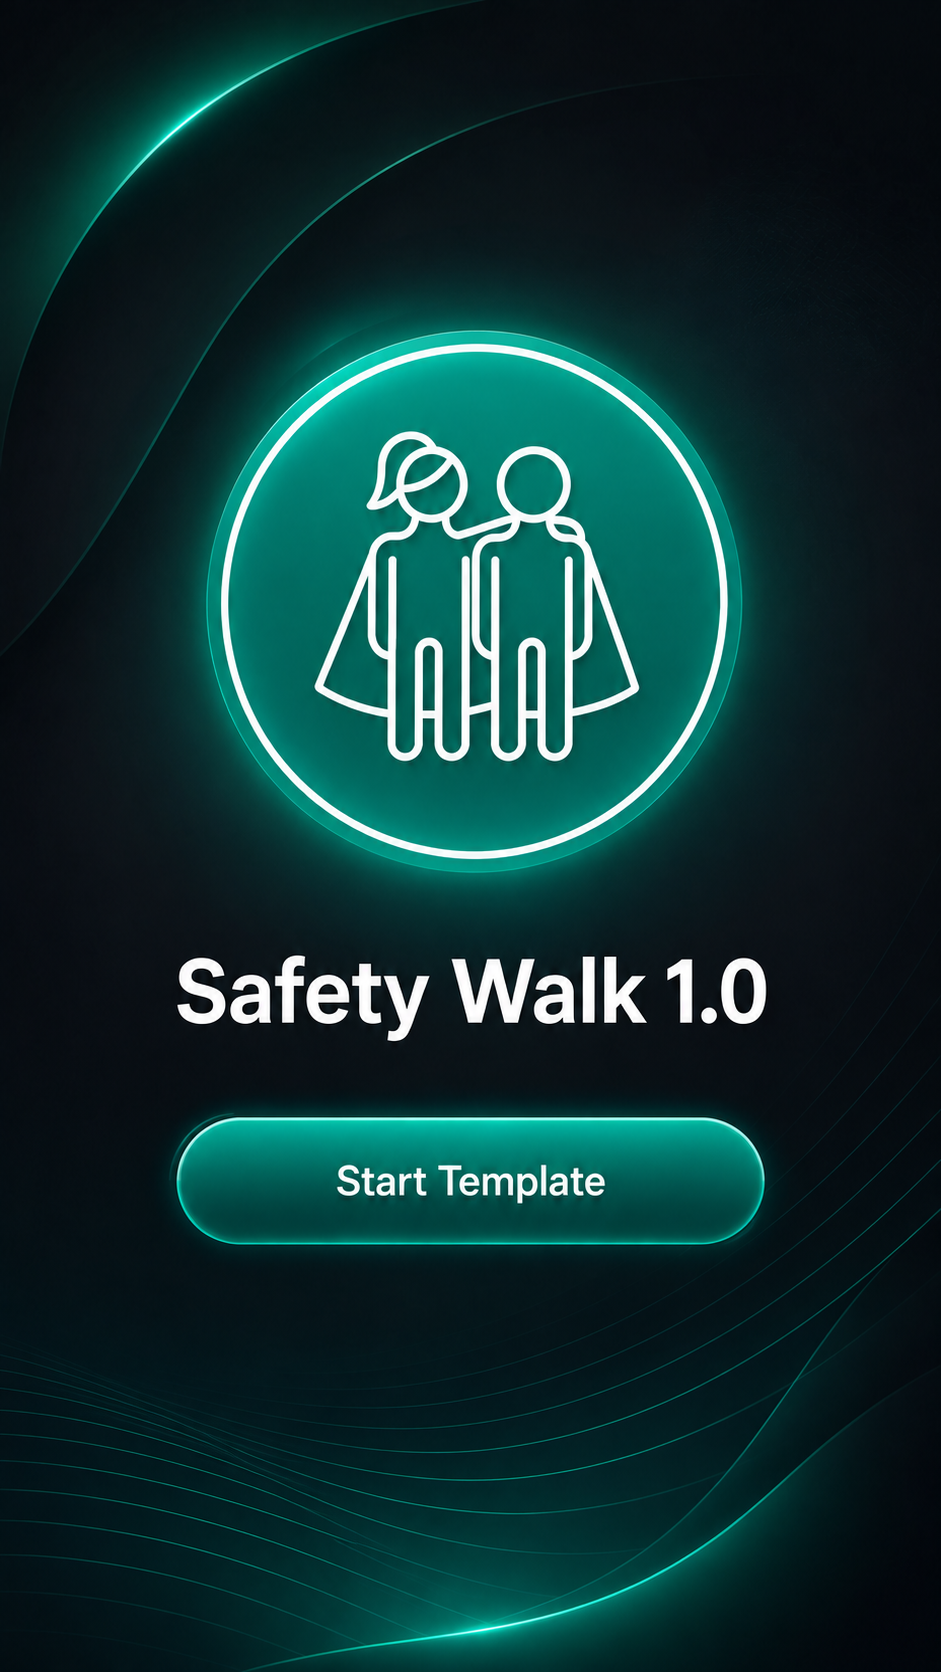
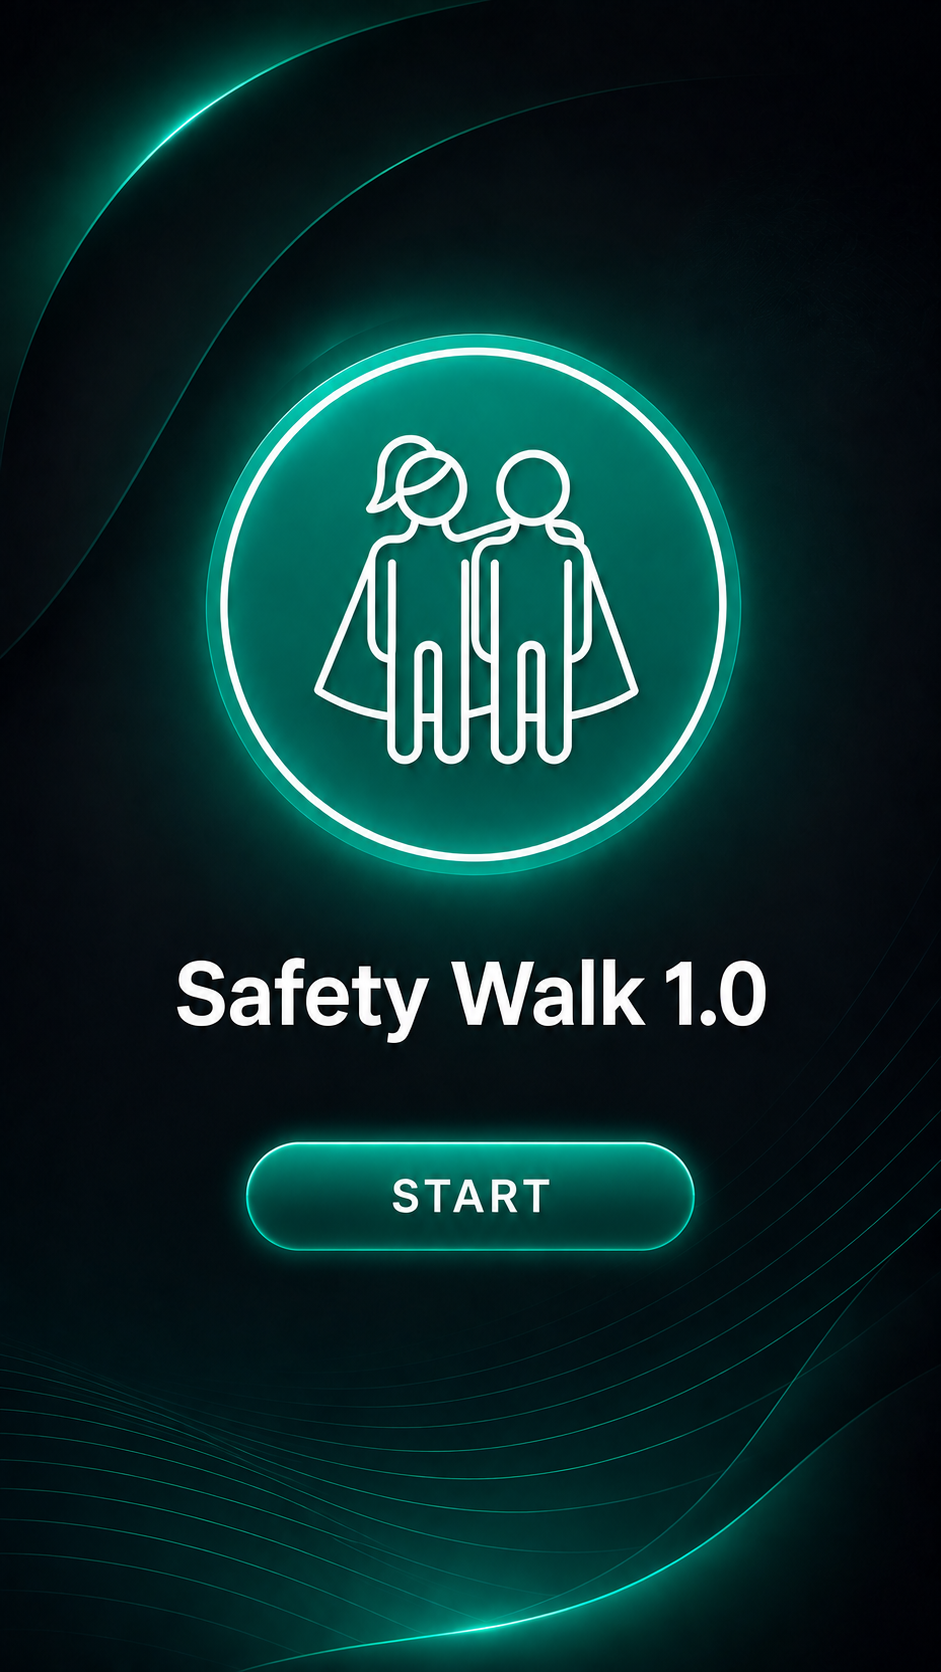
Add files via upload

diff --git a/index.html b/index.html
@@ -4,14 +4,14 @@
   <meta charset="utf-8">
   <meta name="viewport" content="width=device-width,initial-scale=1,viewport-fit=cover,maximum-scale=1,user-scalable=no">
   <title>Safety Walk 1.0</title>
-  <meta name="hse-build" content="2026-08-20-v145">
+  <meta name="hse-build" content="2026-08-20-v146">
   <meta name="theme-color" content="#031014">
   <meta name="apple-mobile-web-app-capable" content="yes">
   <meta name="apple-mobile-web-app-status-bar-style" content="black-translucent">
   <meta name="apple-mobile-web-app-title" content="SAFETY WALK">
-  <link rel="icon" type="image/png" sizes="192x192" href="./icon-192.png?v=145">
-  <link rel="apple-touch-icon" sizes="180x180" href="./apple-touch-icon.png?v=145">
-  <link rel="manifest" href="./manifest.webmanifest?v=145">
+  <link rel="icon" type="image/png" sizes="192x192" href="./icon-192.png?v=146">
+  <link rel="apple-touch-icon" sizes="180x180" href="./apple-touch-icon.png?v=146">
+  <link rel="manifest" href="./manifest.webmanifest?v=146">
   <style>
     :root { color-scheme: dark; }
     * { box-sizing: border-box; }
@@ -96,9 +96,9 @@
 </head>
 <body>
   <main class="launch-screen" aria-label="Safety Walk 1.0">
-    <img id="launchArt" class="launch-art" src="./safety-walk-cover.png?v=145" alt="">
-    <a id="startHotspot" class="start-hotspot" href="./app-v137.html" aria-label="Start Safety Walk template">
-      <span class="sr-only">Start Template</span>
+    <img id="launchArt" class="launch-art" src="./safety-walk-cover.png?v=146" alt="">
+    <a id="startHotspot" class="start-hotspot" href="./app-v137.html" aria-label="Start Safety Walk">
+      <span class="sr-only">START</span>
     </a>
   </main>
 
@@ -110,7 +110,7 @@
       // Coordinates of the visible Start Template button in safety-walk-cover.png.
       // The hit area is recalculated from the image's real cover-scaling, so it
       // remains aligned across current iPhone screen sizes and orientations.
-      const button = { x: 168, y: 1097, width: 592, height: 137 };
+      const button = { x: 240, y: 1134, width: 458, height: 122 };
 
       function positionHotspot() {
         const vw = window.innerWidth;
